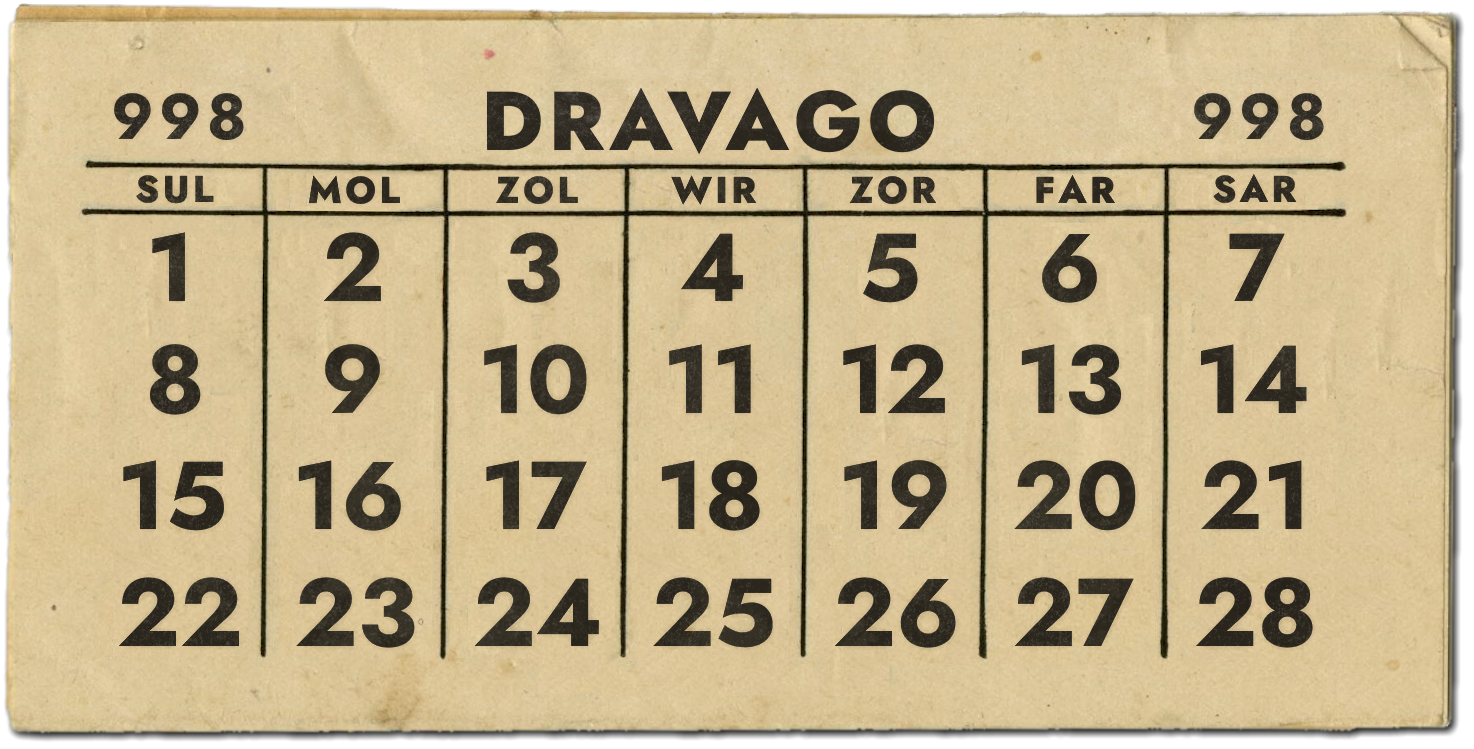
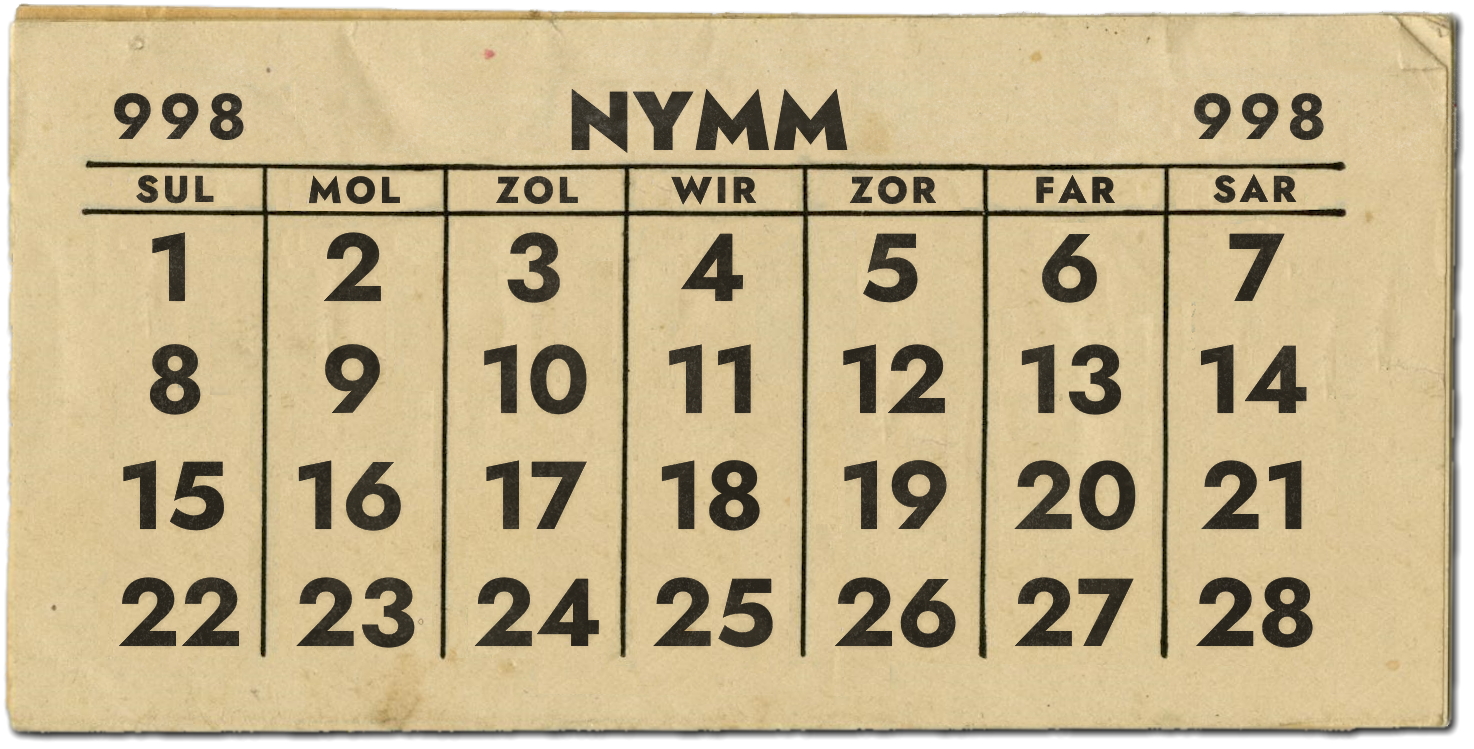
Quartz sync: Dec 8, 2024, 5:57 PM

Changed region(s): [[0.3121, 0.1228, 0.6554, 0.215]]

diff --git a/content/_assets/media/drawings/landing.md b/content/_assets/media/drawings/landing.md
@@ -29,124 +29,124 @@ cac382374deb1181989ac4dadb390b21aa2756c1: [[_assets/media/drawings/_assets/bluep
 %%
 ## Drawing
 ```compressed-json
[2 lines of base64/hex data omitted]
 
[2 lines of base64/hex data omitted]
 
[2 lines of base64/hex data omitted]
 
[2 lines of base64/hex data omitted]
 
[2 lines of base64/hex data omitted]
 
[2 lines of base64/hex data omitted]
 
[2 lines of base64/hex data omitted]
 
[2 lines of base64/hex data omitted]
 
[2 lines of base64/hex data omitted]
 
[2 lines of base64/hex data omitted]
 
[2 lines of base64/hex data omitted]
 
[2 lines of base64/hex data omitted]
 
[2 lines of base64/hex data omitted]
 
[2 lines of base64/hex data omitted]
 
[2 lines of base64/hex data omitted]
 
[2 lines of base64/hex data omitted]
 
[2 lines of base64/hex data omitted]
 
[2 lines of base64/hex data omitted]
 
[2 lines of base64/hex data omitted]
 
[2 lines of base64/hex data omitted]
 
[2 lines of base64/hex data omitted]
 
[2 lines of base64/hex data omitted]
 
[2 lines of base64/hex data omitted]
 
[2 lines of base64/hex data omitted]
 
[2 lines of base64/hex data omitted]
 
[2 lines of base64/hex data omitted]
 
[2 lines of base64/hex data omitted]
 
[2 lines of base64/hex data omitted]
 
[2 lines of base64/hex data omitted]
 
[2 lines of base64/hex data omitted]
 
[2 lines of base64/hex data omitted]
 
[2 lines of base64/hex data omitted]
 
[2 lines of base64/hex data omitted]
 
[2 lines of base64/hex data omitted]
 
[2 lines of base64/hex data omitted]
 
[2 lines of base64/hex data omitted]
 
[2 lines of base64/hex data omitted]
 
[2 lines of base64/hex data omitted]
 
[2 lines of base64/hex data omitted]
 
[2 lines of base64/hex data omitted]
 
[2 lines of base64/hex data omitted]
 
[2 lines of base64/hex data omitted]
 
[2 lines of base64/hex data omitted]
 
[2 lines of base64/hex data omitted]
 
[2 lines of base64/hex data omitted]
 
[2 lines of base64/hex data omitted]
 
[2 lines of base64/hex data omitted]
 
[2 lines of base64/hex data omitted]
 
[2 lines of base64/hex data omitted]
 
[2 lines of base64/hex data omitted]
 
[2 lines of base64/hex data omitted]
 
[2 lines of base64/hex data omitted]
 
[2 lines of base64/hex data omitted]
 
[2 lines of base64/hex data omitted]
 
[2 lines of base64/hex data omitted]
 
[2 lines of base64/hex data omitted]
 
[2 lines of base64/hex data omitted]
 
[2 lines of base64/hex data omitted]
 
[2 lines of base64/hex data omitted]
 
[2 lines of base64/hex data omitted]
 ```
 %%

diff --git a/content/index.md b/content/index.md
@@ -36,6 +36,8 @@ description: Notes for Call of the Mournland
 | [[025]] | 11-10 | The battle against the Blades at The Theater of Light and Shadow.          |
 | [[026]] | 11-17 | Delving into the Cannith Research Facility within the Grey Mist.           |
 | [[027]] | 11-24 | Scrying on Phaerix and Zelandris and taking the final schema.              |
+| [[028]] | 12-01 | \-                                                                         |
+| [[029]] | 12-08 | \-                                                                         |
 <!-- SerializedQuery END -->
 
 # The Party
@@ -63,8 +65,8 @@ description: Notes for Call of the Mournland
 | Metrol                   | Mournland  | The former capital of Galifar and Cyre, now ruined                     |
 | Sterngate                | Breland    | Fortress at border between Breland and Darguun                         |
 | Starilaskur              | Breland    | Major lightning rail stop in Breland                                   |
-| Flamekeep                | Thrane     | The largest city and religious/political heart of Thrane               |
 | Trolanport               | Zilargo    | Capital city of Zilargo                                                |
+| Flamekeep                | Thrane     | The largest city and religious/political heart of Thrane               |
 | Clan Ashmaker Hold Ruins | Darguun    | Mountain Cavern ruins of Dwarven Clan Ashmaker's Hold                  |
 | Argonnessen              | \-         | Isolationist dragon continent to the far southeast of Khorvaire.       |
 | Rhukaan Draal            | Darguun    | A sprawling goblinoid metropolis and capital city of Darguun           |
@@ -106,8 +108,8 @@ description: Notes for Call of the Mournland
 | Victor d'Vadalis     | \-              | Snake handler of House Vadalis from Lightning Rail Train                  |
 | Uvlar                | Sterngate       | Bugbear mercenary band captain                                            |
 | Clan Ashmaker        | Darguun         | Long deceased Dwarven clan in sarcophagi in Dwarven ruins.                |
-| Haruuc Shaarat'kor   | Rhukaan Draal   | Ruler of Darguun                                                          |
 | Gravlor              | Rhukaan Draal   | Firearm salesman in Rhukaan Draal.                                        |
+| Haruuc Shaarat'kor   | Rhukaan Draal   | Ruler of Darguun                                                          |
 | Mama Goth            | Rhukaan Draal   | Magic store proprietor in Rhukaan Draal.                                  |
 | Stonk                | Rhukaan Draal   | Bugbear stablemaster and cart repairman in Rhukaan Draal.                 |
 | Cepha                | Khraal          | Green dragon known as The Scourge of Khraal                               |
@@ -116,8 +118,8 @@ description: Notes for Call of the Mournland
 | Dal'erna             | Mournland       | Medusa hiker that helped Zinnia after the Mourning                        |
 | Daneel Thornwaist    | Mournland       | Deceased gnome lightning rail worker from Zilargo.                        |
 | Jerediah Semet       | Darry's Landing | Mayor of Darry's Landing                                                  |
-| Joe                  | Darry's Landing | Chef from Darry's Landing                                                 |
 | Myles                | Darry's Landing | Eight year-old boy from Darry's Landing                                   |
+| Joe                  | Darry's Landing | Chef from Darry's Landing                                                 |
 | Teddic               | Copperton       | A deceased Cyran soldier who had been suspended in time on a battlefield. |
 | Annallisse           | Darry's Landing | Alchemist in Darry's Landing                                              |
 | Sovereign Alexander  | Darry's Landing | Priest of the Sovereign Host in Darry's Landing                           |
@@ -139,8 +141,8 @@ description: Notes for Call of the Mournland
 | Bag of Holding                  | Nakaya      | Storage bag with magically increased capacity                  |
 | Snail shell necklace            | Zinnia Rose | Magical necklace with boon from a Chwinga                      |
 | Boots of Elvenkind              | Rik         | Boots that magically silence footsteps                         |
-| Helm of Telepathy               | Rik         | Cast Detect Thoughts/Suggestion once a day                     |
 | Potion of Cloud Giant Strength  | Bariac      | Potion that increases Strength to 27 for an hour               |
+| Helm of Telepathy               | Rik         | Cast Detect Thoughts/Suggestion once a day                     |
 | Pocketwatch of Time and Place   | Bariac      | Pocketwatch that tells time and points North on Material Plane |
 <!-- SerializedQuery END -->
 # Compendium
@@ -157,8 +159,8 @@ description: Notes for Call of the Mournland
 | Ankheg            | Darguun         | Large burrowing insectoid creatures                          |
 | Daelkyr           | Xoriat          | Extraplanar creatures who appear unnaturally beautiful       |
 | Chwinga           | Darguun         | Small, shy spirits found in remote locations                 |
-| Clockwork leech   | Darguun         | Clockwork construction with the appearance of enormous leech |
 | Dolgrim           | Darguun         | Aberration created by merging two goblin bodies              |
+| Clockwork leech   | Darguun         | Clockwork construction with the appearance of enormous leech |
 | Gibbering mouther | Darguun         | Incoherent amorphous mounds of flesh and orifices            |
 | Kobold            | Darguun         | Small-sized reptilian humanoids                              |
 | Dog abomination   | Mournland       | A seemingly normal dog transformed into an abomination       |

diff --git a/content/People/Max Character List.md b/content/People/Max Character List.md
@@ -9,9 +9,9 @@ draft: true
 
 | Name                 | Description                                                               |
 | -------------------- | ------------------------------------------------------------------------- |
-| Annallisse           | Alchemist in Darry's Landing                                              |
 | Arguth               | Orc artificer and nut salesman in Sharn                                   |
 | Bonal Geldem         | Human provost of Morgrave University studying history                     |
+| Annallisse           | Alchemist in Darry's Landing                                              |
 | Cepha                | Green dragon known as The Scourge of Khraal                               |
 | Chester              | Dramatic daelkyr jester stalking Aya in Sharn                             |
 | Clan Ashmaker        | Long deceased Dwarven clan in sarcophagi in Dwarven ruins.                |
@@ -20,27 +20,27 @@ draft: true
 | Edrin                | Human cleric of the Church of the Silver Flame                            |
 | Felicia Bladefall    | Human merchant from Lightning Rail Train                                  |
 | Galin Springbranch   | Inquisitive gnome that gifted party bronze dragon scales                  |
-| Haruuc Shaarat'kor   | Ruler of Darguun                                                          |
 | Gravlor              | Firearm salesman in Rhukaan Draal.                                        |
-| Hathar               | Dwarven wayfinder guide into Mournland                                    |
 | Jerediah Semet       | Mayor of Darry's Landing                                                  |
-| Joe                  | Chef from Darry's Landing                                                 |
-| Lady Elaydren d'Vown | Human noblewoman of House Cannith in Sharn                                |
-| Mama Goth            | Magic store proprietor in Rhukaan Draal.                                  |
+| Haruuc Shaarat'kor   | Ruler of Darguun                                                          |
+| Hathar               | Dwarven wayfinder guide into Mournland                                    |
 | Mandy                | Impatient bugbear Daask member                                            |
 | Myles                | Eight year-old boy from Darry's Landing                                   |
+| Mama Goth            | Magic store proprietor in Rhukaan Draal.                                  |
+| Lady Elaydren d'Vown | Human noblewoman of House Cannith in Sharn                                |
+| Joe                  | Chef from Darry's Landing                                                 |
+| Sergeant Dolom       | Sergeant in Sharn                                                         |
 | Nibbur               | Goblin tailor and informant for Rik Roper in Sharn                        |
 | Phaerix              | \-                                                                        |
-| Sergeant Dolom       | Sergeant in Sharn                                                         |
 | Skakan               | Goblin "merchant" running a Rat Market in Sharn                           |
 | Sovereign Alexander  | Priest of the Sovereign Host in Darry's Landing                           |
-| Stur                 | Bugbear patrolman of the Limb Choppers in The Khraal.                     |
 | Stonk                | Bugbear stablemaster and cart repairman in Rhukaan Draal.                 |
-| Teddic               | A deceased Cyran soldier who had been suspended in time on a battlefield. |
 | Tumrek d'Cannith     | Jolly dwarven artificer, friend of Kanxith's from Sharn                   |
-| Uvlar                | Bugbear mercenary band captain                                            |
-| Victor d'Vadalis     | Snake handler of House Vadalis from Lightning Rail Train                  |
+| Stur                 | Bugbear patrolman of the Limb Choppers in The Khraal.                     |
+| Teddic               | A deceased Cyran soldier who had been suspended in time on a battlefield. |
 | Zelandris            | Changeling that killed Bonal Geldem while wearing a warforged mask        |
+| Victor d'Vadalis     | Snake handler of House Vadalis from Lightning Rail Train                  |
+| Uvlar                | Bugbear mercenary band captain                                            |
 <!-- SerializedQuery END -->
 
 

diff --git a/content/zone/session notes extended/028 Extended.md b/content/zone/session notes extended/028 Extended.md
@@ -1,0 +1,33 @@
+---
+title: Session 028 Extended
+description: 
+date: 2024-12-08
+draft: true
+---
+**Underground Cannith Facility**
+
+Rik scried on his old partner, Harkun Stonerunner, a minotaur detective from Drogam and Rik Raper's former colleague. They had once been tracking a serial killer who sent victims' bones, carved with runes, to their families. Many victims had been identified, but only one body had ever been recovered.
+
+In the scrying vision, Rik recognized the interior of a lightning rail carriage. Harkun appeared seated on a bed, missing one of his horns, with one hand shriveled and missing several fingers. Moving through the train, Harkun tore into a first-class compartment. His voice sounded strange and gurgling, and a tentacle erupted from his wrist, killing a noble. In the moment before the vision ended, Rik heard Harkun say, _"Ysgitherwyn sends his regards."_ Through the window, Rik saw the train approaching the city of Sharn.
+
+The group realized the name _Ysgitherwyn_ referred to a Daelkyr known as "the lie made flesh." Rik concluded that his partner had been corrupted and was no longer the man he had once known. Determined to confront Harkun, the group decided to seek him out in Sharn.
+
+Within the facility, they discovered a room full of stone figures, including a Blades member. Nakaya had almost been petrified as well, illuminated by an eerie blue light. At the center of the room was a massive, warforged-like head emitting the blue light from its eyes. The party disabled the construct by unplugging its power source and removed a spotlight-like device from behind a glass pane, adding it to their bag of holding.
+
+After taking a short rest, the group departed the facility into the grey mist.
+
+---
+
+**Through the Grey Mist**
+
+In the mist, Nakaya felt blinded and could not see the compass. Zinnia's eye twitched, and she began to tremble, while Bariac shouted in confusion and pulled away. The others helped guide their companions through the strange phenomenon. The effects persisted until Amlyn restored Nakaya's vision.
+
+The group took six days to travel to Lyrenton, where they retrieved their cart and horses. Along the way, they encountered military patrols who exchanged knowing looks, though nothing was said.
+
+They then spent another six days traveling to Rhukaan Draal, where they sold their loot for a total of 930 GP, earning 155 GP per party member. From there, they departed for Sterngate.
+
+---
+
+**Three Days Toward Sterngate**
+
+After three days of travel, the group encountered an ogre-centipede monster and engaged it in combat.

diff --git a/content/Sessions/028.md b/content/Sessions/028.md
@@ -1,0 +1,33 @@
+---
+title: Session 028
+type: session
+description: 
+date: 2024-12-01
+draft: true
+absent:
+  - Montana
+  - Aly
+gained xp: 575
+total xp: 7099
+---
+**Sar, Dravago 28, 998 YK - Zor, Nymm 20, 998 YK**
+
+Still in the underground Cannith facility, Rik scried on his former partner, Harkun Stonerunner, whose hand appeared to be shriveled and one of his minotaur horns was missing. He killed a noble on a lightning rail train bound for Sharn while invoking the Daelkyr "Ysgitherwyn, the lie made flesh." The party disabled an enormous warforged-like head emitting petrifying blue light, taking one of its spotlights, before finally departing the Mournland through the disorienting Grey Mist. After retrieving their cart and horses in Lyrenton, they traveled toward Sterngate, encountering an ogre-centipede monster along the way.
+
+![[_assets/media/Petrifying Chamber.png]]
+*A chamber full of stone figures before a giant head emitting petrifying magical light in the Underground Cannith research facility*
+# Handouts and Highlights
+- Leveled up to level 5!
+- Sold 930 GP of loot in Rhuukan Draal, 155 GP each
+- Learned of Rik's mysteriously missing partner, Harkun Stonerunner
+# Quests and Questions
+- Head to the Lightning Rail station and return to Sharn
+- Get more information and decide what to do with the schemas
+- Reverse Nakaya's sudden aging with help of House Jorasco or someone else that can cast Greater Restoration
+- Investigate the whereabouts of Harkun Stonerunner
+- Who is Phaerix's friend Yllorrat?
+- What's up with Zelandris' cracked emerald amulet?
+
+# External Links
+- [Session 28](https://docs.google.com/document/d/1J33aBWlHE9Q3B2MMNnUZiaMUoW-X7qpKUtETTQmvalc/edit?tab=t.0#heading=h.fiq7to8t56rc) at [Lizz's Notes](https://docs.google.com/document/d/1J33aBWlHE9Q3B2MMNnUZiaMUoW-X7qpKUtETTQmvalc/edit)
+- [Discord Notes](https://discord.com/channels/283480767844057088/1208993465531105380/1312896124679622826)

diff --git a/content/Places/Breland/Sharn.md b/content/Places/Breland/Sharn.md
@@ -20,11 +20,11 @@ Sharn is the most populous city in all of Khorvaire. Known as the City of Towers
 | [[Arguth]]                             | Orc artificer and nut salesman in Sharn                            |
 | [[Bonal Geldem]]                 | Human provost of Morgrave University studying history              |
 | [[Chester]]                           | Dramatic daelkyr jester stalking Aya in Sharn                      |
-| [[Lady Elaydren d'Vown]] | Human noblewoman of House Cannith in Sharn                         |
 | [[Mandy]]                               | Impatient bugbear Daask member                                     |
-| [[Nibbur]]                             | Goblin tailor and informant for Rik Roper in Sharn                 |
+| [[Lady Elaydren d'Vown]] | Human noblewoman of House Cannith in Sharn                         |
 | [[Aya Albata]]   | Human courier warlock from forgotten past                          |
 | [[Sergeant Dolom]]             | Sergeant in Sharn                                                  |
+| [[Nibbur]]                             | Goblin tailor and informant for Rik Roper in Sharn                 |
 | [[Skakan]]                             | Goblin "merchant" running a Rat Market in Sharn                    |
 | [[Tumrek d'Cannith]]         | Jolly dwarven artificer, friend of Kanxith's from Sharn            |
 | [[Zelandris]]                       | Changeling that killed Bonal Geldem while wearing a warforged mask |

diff --git a/content/Places/Darguun/Rhukaan Draal.md b/content/Places/Darguun/Rhukaan Draal.md
@@ -16,8 +16,8 @@ Rhukaan Draal is the capital city of Darguun. Rhukaan Draal is a sprawling gobli
 
 | File                                                 | Description                                               |
 | ---------------------------------------------------- | --------------------------------------------------------- |
-| [[Haruuc Shaarat'kor]] | Ruler of Darguun                                          |
 | [[Gravlor]]                       | Firearm salesman in Rhukaan Draal.                        |
+| [[Haruuc Shaarat'kor]] | Ruler of Darguun                                          |
 | [[Mama Goth]]                   | Magic store proprietor in Rhukaan Draal.                  |
 | [[Stonk]]                           | Bugbear stablemaster and cart repairman in Rhukaan Draal. |
 <!-- SerializedQuery END -->

diff --git a/content/Treasure/Schema.md b/content/Treasure/Schema.md
@@ -13,7 +13,7 @@ Discovered in [[Places/Breland/Sharn#House Cannith Ruins|House Cannith Ruins ben
 
 Identified by [[People/Arguth|Arguth]] who revealed it was a very rare object containing a schema. After a couple days work, he activated the schema, revealing a hologram of a giant mechanical clawed arm, with words resembling binary flitting about.
 
-The mechanical arm from the schema reminded [[Tumrek d'Cannith]] of the Colussi used in the war, but even more complicated. He confirmed that it is a weapon.
+The mechanical arm from the schema reminded [[Tumrek d'Cannith]] of the Colossi used in the war, but even more complicated. He confirmed that it is a weapon.
 ## Second Schema
 Discovered in Dwarven Ruins in Darguun. Taken from the Goblin king Werd who wore it on his crown.
 

diff --git a/content/Places/Mournland/Darry's Landing.md b/content/Places/Mournland/Darry's Landing.md
@@ -17,8 +17,8 @@ nation: Mournland
 | ------------------------------------------------------ | ----------------------------------------------- |
 | [[Annallisse]]                   | Alchemist in Darry's Landing                    |
 | [[Jerediah Semet]]           | Mayor of Darry's Landing                        |
-| [[Joe]]                                 | Chef from Darry's Landing                       |
 | [[Myles]]                             | Eight year-old boy from Darry's Landing         |
+| [[Joe]]                                 | Chef from Darry's Landing                       |
 | [[Sovereign Alexander]] | Priest of the Sovereign Host in Darry's Landing |
 <!-- SerializedQuery END -->
 

diff --git a/content/Sessions/029.md b/content/Sessions/029.md
@@ -1,0 +1,18 @@
+---
+title: 
+type: session
+description: 
+date: 2024-12-08
+draft: false
+absent:
+gained xp: 
+total xp:
+---
+**Sul, Dravago 1, 998 YK**
+# Handouts and Highlights
+- 
+# Quests and Questions
+- 
+# External Links
+- Session xx at [Lizz's Notes](https://docs.google.com/document/d/1J33aBWlHE9Q3B2MMNnUZiaMUoW-X7qpKUtETTQmvalc/edit)
+- [Discord Notes](https://discord.com/channels/283480767844057088/1208993465531105380/1315464333878235166)
